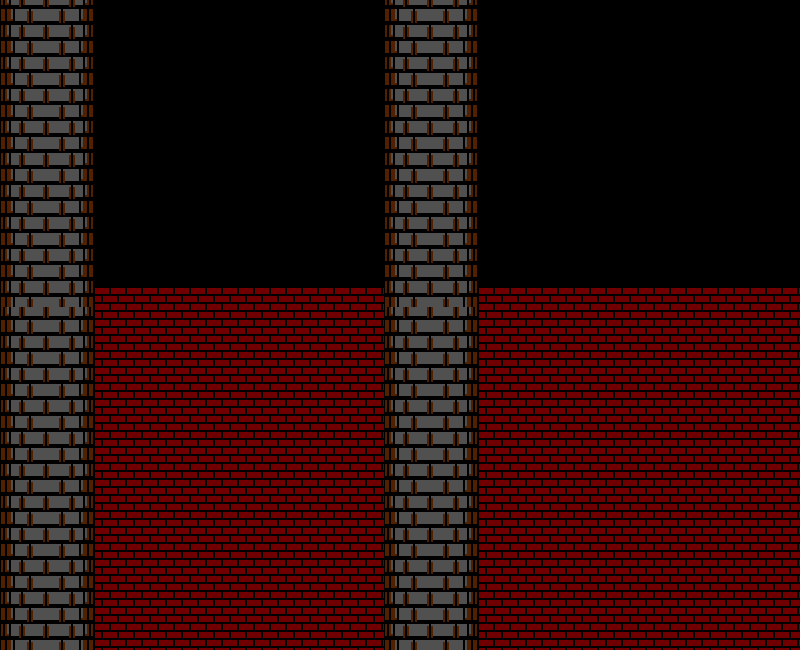
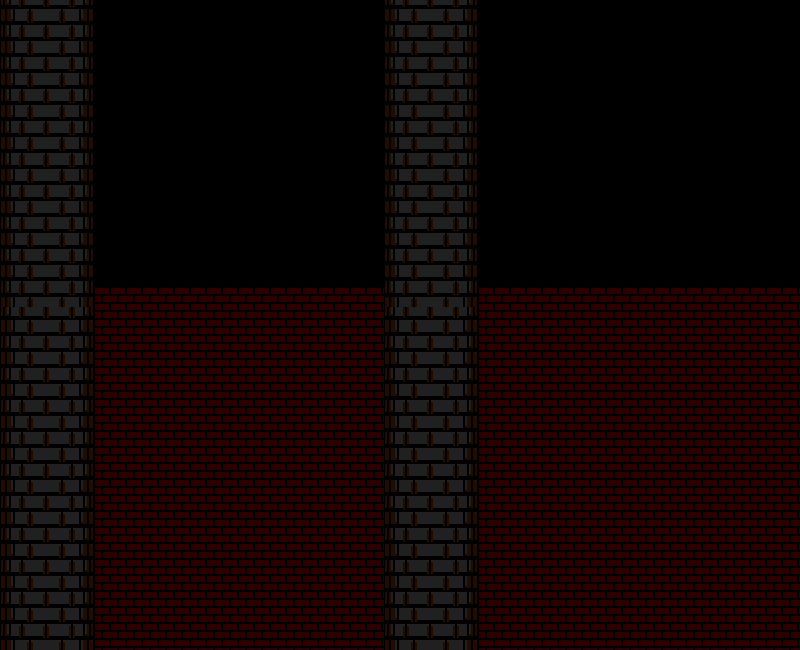
Intégration nouveaux sprites

diff --git a/core/src/com/game/mario/GameManager.java b/core/src/com/game/mario/GameManager.java
@@ -45,7 +45,7 @@ public class GameManager extends Game {
 						
 		//levels.add("test_world.tmx");				
 		
-		//levels.add(new Level(1,1,"level_1_1.tmx", WorldTypeEnum.HILLS));
+		levels.add(new Level(1,1,"level_1_1.tmx", WorldTypeEnum.HILLS));
 		//levels.add(new Level(1,2,"level_1_2.tmx", WorldTypeEnum.UNDERGROUND));
 		//levels.add(new Level(1,3,"level_1_3.tmx", WorldTypeEnum.WATERFALL));
 		levels.add(new Level(1,4,"level_1_4.tmx", WorldTypeEnum.CASTLE));		

diff --git a/core/src/com/game/mario/screen/cinematic/AbstractCinematicSceneHandler.java b/core/src/com/game/mario/screen/cinematic/AbstractCinematicSceneHandler.java
@@ -68,7 +68,8 @@ public abstract class AbstractCinematicSceneHandler {
 	public abstract void handleScene(float delta);		
 	
 	protected void renderCinematicScene(float delta) {
-		Gdx.gl.glClearColor(0.11f, 0.81f, 0.91f, 1);
+		//Gdx.gl.glClearColor(0.11f, 0.81f, 0.91f, 1);
+		Gdx.gl.glClearColor(0,0,0, 1);
 		Gdx.gl.glClear(GL20.GL_COLOR_BUFFER_BIT);
 		
 		AbstractSprite.updateCommonStateTime(delta);

diff --git a/core/src/com/game/mario/sprite/tileobject/sfx/Lava.java b/core/src/com/game/mario/sprite/tileobject/sfx/Lava.java
@@ -14,7 +14,7 @@ public class Lava extends AbstractTileObjectSfx {
 	
 	@Override
 	public void initializeAnimations() {		
-		currentAnimation = AnimationBuilder.getInstance().build(ResourcesLoader.CASTLE_LAVA, 0, 8, 0.1f);					
+		currentAnimation = AnimationBuilder.getInstance().build(ResourcesLoader.CASTLE_LAVA, 0, 4, 0.1f);					
 	}
 
 	protected void updateAnimation(float delta) {				

diff --git a/core/src/com/game/mario/screen/game/GameScreen.java b/core/src/com/game/mario/screen/game/GameScreen.java
@@ -279,7 +279,7 @@ public class GameScreen implements Screen  {
 		CollisionHandler.getCollisionHandler().collideMarioWithUpperBlock(mario, tilemap, stage);
 		
 		// Draw the scene
-		Gdx.gl.glClearColor(0.11f, 0.81f, 0.91f, 1);
+		Gdx.gl.glClearColor(0,0,0, 1);
 		Gdx.gl.glClear(GL20.GL_COLOR_BUFFER_BIT);
 					
 		if (camera.isScrollable()) {			
